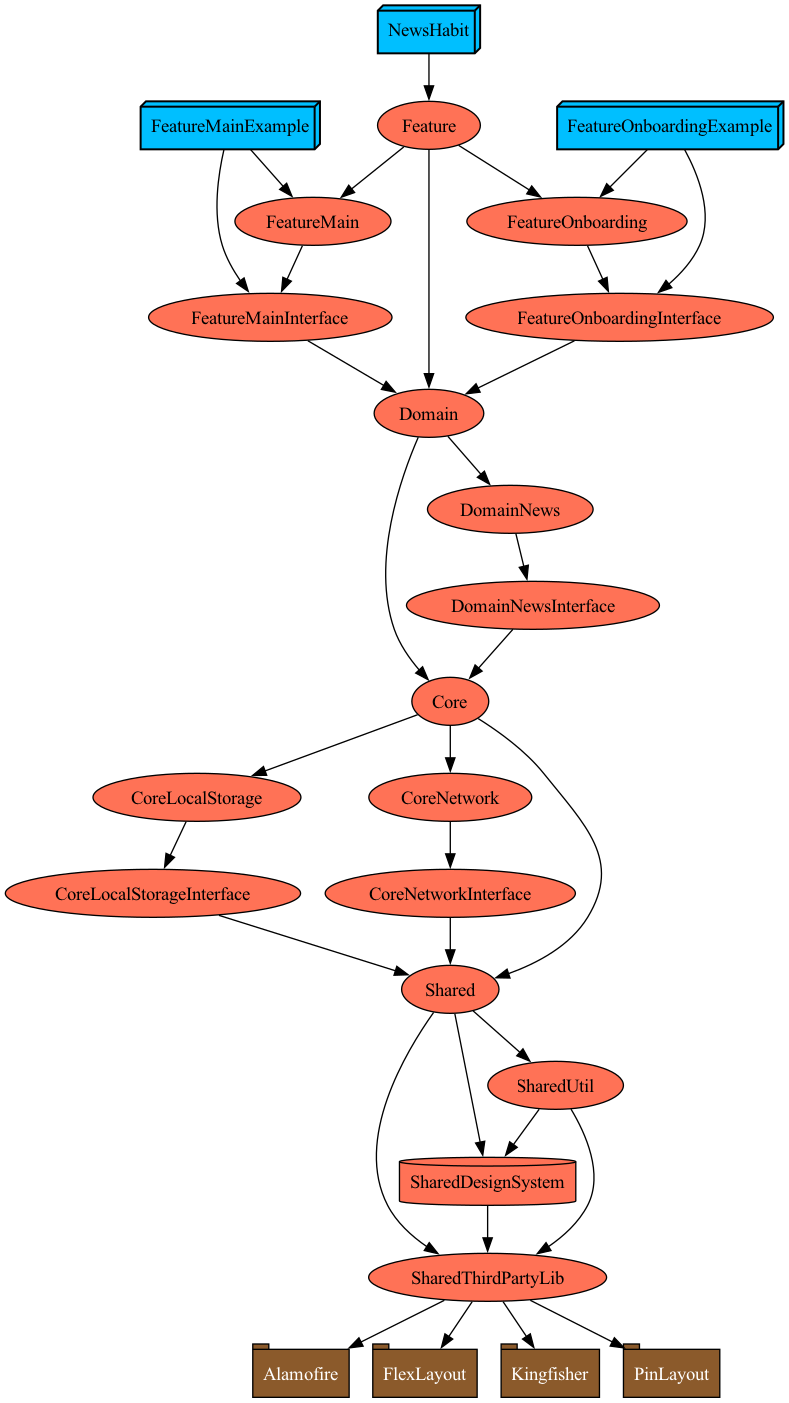
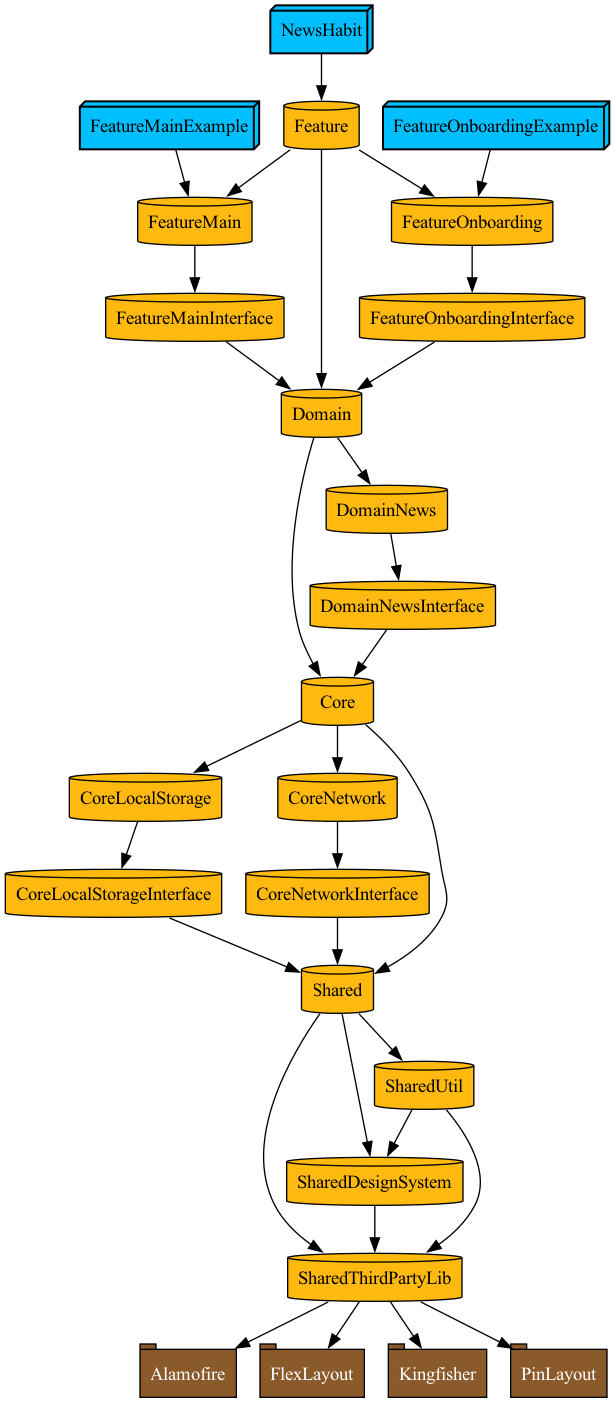
build: FlexLayout 임포트를 위한 타겟 dependency 및 product 변경

Changed region(s): [[0.0, 0.0, 1.0, 1.0], [0.4325, 0.7662, 0.4634, 0.7969]]

diff --git a/Tuist/ProjectDescriptionHelpers/Target+Templates.swift b/Tuist/ProjectDescriptionHelpers/Target+Templates.swift
@@ -30,7 +30,7 @@ public struct TargetFactory {
     public init(
         name: String = "",
         destinations: Destinations = [.iPhone],
-        product: Product = .staticLibrary,
+        product: Product = .framework,
         productName: String? = nil,
         bundleId: String? = nil,
         deploymentTargets: DeploymentTargets? = Project.Environment.deploymentTargets,
@@ -134,6 +134,7 @@ public extension Target {
 public extension Target {
     static func feature(factory: TargetFactory) -> Self {
         var newFactory = factory
+        newFactory.product = .framework
         newFactory.name = ModulePath.Feature.name
         newFactory.sources = .sources
 
@@ -152,7 +153,6 @@ public extension Target {
         var newFactory = factory
         newFactory.name = ModulePath.Feature.name + module.rawValue + "Interface"
         newFactory.sources = .interface
-        newFactory.product = Environment.forPreview.getBoolean(default: false) ? .framework : .staticLibrary
 
         return make(factory: newFactory)
     }
@@ -174,6 +174,7 @@ public extension Target {
 public extension Target {
     static func domain(factory: TargetFactory) -> Self {
         var newFactory = factory
+        newFactory.product = .framework
         newFactory.name = ModulePath.Domain.name
         newFactory.sources = .sources
 
@@ -202,6 +203,7 @@ public extension Target {
 public extension Target {
     static func core(factory: TargetFactory) -> Self {
         var newFactory = factory
+        newFactory.product = .framework
         newFactory.name = ModulePath.Core.name
         newFactory.sources = .sources
 
@@ -230,6 +232,7 @@ public extension Target {
 public extension Target {
     static func shared(factory: TargetFactory) -> Self {
         var newFactory = factory
+        newFactory.product = .framework
         newFactory.name = ModulePath.Shared.name
         newFactory.sources = .sources
 
@@ -242,7 +245,6 @@ public extension Target {
         newFactory.sources = .sources
         
         if module == .DesignSystem {
-            newFactory.product = .staticFramework
             newFactory.resources = ["Resources/**"]
         }
 

diff --git a/Projects/Feature/Onboarding/Project.swift b/Projects/Feature/Onboarding/Project.swift
@@ -16,7 +16,8 @@ let targets: [Target] = [
         factory: .init(
             dependencies: [
                 .feature(interface: .Onboarding)
-            ]
+            ],
+            settings: Project.Environment.defaultSettings
         )
     ),
     .feature(
@@ -24,8 +25,7 @@ let targets: [Target] = [
         factory: .init(
             infoPlist: Project.Environment.appInfoPlist(),
             dependencies: [
-                .feature(implements: .Onboarding),
-                .feature(interface: .Onboarding),
+                .feature(implements: .Onboarding)
             ],
             settings: Project.Environment.defaultSettings
         )

diff --git a/Plugins/DependencyPlugin/ProjectDescriptionHelpers/Project+Environment.swift b/Plugins/DependencyPlugin/ProjectDescriptionHelpers/Project+Environment.swift
@@ -6,8 +6,11 @@ public extension Project {
         public static let deploymentTargets = DeploymentTargets.iOS("15.0")
         public static let bundleId = "com.goojiong.newshabit"
         public static let defaultSettings: Settings = .settings(
-            base: [
-                "ENABLE_USER_SCRIPT_SANDBOXING": "YES"
+            configurations: [
+                .debug(name: "Debug", settings: [
+                    "ENABLE_USER_SCRIPT_SANDBOXING": "YES",
+                    "GCC_PREPROCESSOR_DEFINITIONS": ["DEBUG=1", "FLEXLAYOUT_SWIFT_PACKAGE=1"]
+                ])
             ]
         )
         public static func appInfoPlist() -> InfoPlist {

diff --git a/Projects/Feature/Main/Project.swift b/Projects/Feature/Main/Project.swift
@@ -16,7 +16,8 @@ let targets: [Target] = [
         factory: .init(
             dependencies: [
                 .feature(interface: .Main)
-            ]
+            ],
+            settings: Project.Environment.defaultSettings
         )
     ),
     .feature(
@@ -24,8 +25,7 @@ let targets: [Target] = [
         factory: .init(
             infoPlist: Project.Environment.appInfoPlist(),
             dependencies: [
-                .feature(implements: .Main),
-                .feature(interface: .Main)
+                .feature(implements: .Main)
             ],
             settings: Project.Environment.defaultSettings
         )

diff --git a/Tuist/ProjectDescriptionHelpers/SourceFilesList+Template.swift b/Tuist/ProjectDescriptionHelpers/SourceFilesList+Template.swift
@@ -4,5 +4,4 @@ public extension SourceFilesList {
     static let exampleSources: SourceFilesList = "Example/**"
     static let interface: SourceFilesList = "Interface/**"
     static let sources: SourceFilesList = "Sources/**"
-    static let resources: SourceFilesList = "Resources/**"
 }
